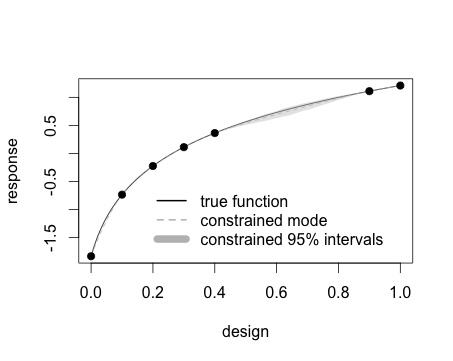
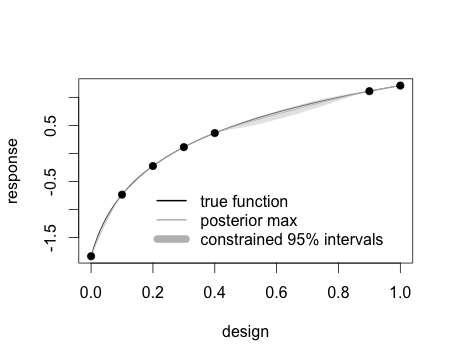
update

Changed region(s): [[0.4327, 0.5789, 0.7417, 0.6399], [0.5254, 0.3352, 0.5872, 0.3657], [0.5872, 0.3047, 0.6181, 0.3352]]

diff --git a/README.md b/README.md
@@ -35,17 +35,17 @@ log(20*x+1)-meany
 design <- c(0, 0.1, 0.2, 0.3, 0.4, 0.9, 1)
 response <- f(design)
 
-model = kmMonotonic1D(design, response, covtype="matern5_2",basis.size=50, coef.var=1000, coef.cov=2.5, nugget=1e-7)
+model = kmMonotonic1D(design, response, covtype="matern5_2", basis.size=50, coef.var=355^2, coef.cov=4.37, nugget=1e-7)
 
 plot(f, ylab='response', xlab='design')
 
-plot(object=model, spline=TRUE, quantiles=TRUE, col='gray',nsim=100, add=T)
+plot(object=model, spline=TRUE, quantiles=TRUE, col='gray',nsim=1000, add=T)
 
 points(design,response,pch=19)
 
-legend(0.2,-0.5, c("true function","constrained mode","constrained 95% intervals"),
+legend(0.2,-0.5, c("true function","posterior max","constrained 95% intervals"),
 col = c('black','gray','gray'), text.col = "black",
-lty = c(1, 2, 1), pch=c(NA_integer_, NA_integer_),
+lty = c(1, 1, 1), pch=c(NA_integer_, NA_integer_),
 lwd = c(2, 2, 10), text.font=1,box.lty=0)
 ```
 
